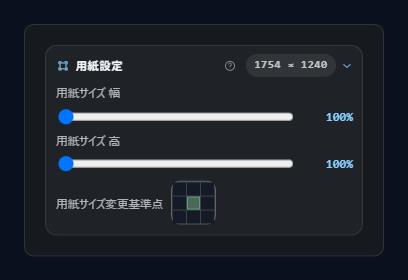
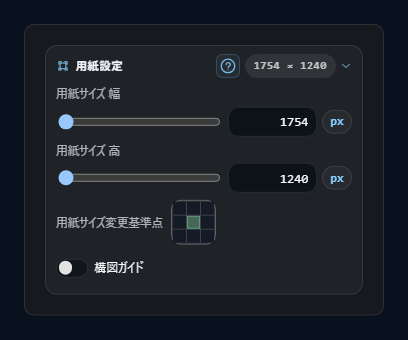
Fix paper pixel inputs and release 1.7.2

diff --git a/test/camera-frames-output-frame-controller.test.ts b/test/camera-frames-output-frame-controller.test.ts
@@ -6,6 +6,10 @@ import {
 	createOutputFrameController,
 } from "../src/controllers/output-frame-controller.js";
 import { createOutputFrameMetricsController } from "../src/controllers/output-frame/metrics.js";
+import {
+	getExportSize,
+	getTargetFrustumExtents,
+} from "../src/engine/projection.js";
 import { createCameraFramesStore } from "../src/store.js";
 import { createShotCameraDocument } from "../src/workspace-model.js";
 
@@ -28,6 +32,7 @@ function createOutputFrameHitHarness() {
 	let shotCameraDocument = createShotCameraDocument({
 		name: "Camera 1",
 	});
+	const historyLabels = [];
 	let renderBoxRect = {
 		left: 120,
 		top: 80,
@@ -89,10 +94,16 @@ function createOutputFrameHitHarness() {
 			return shotCameraDocument;
 		},
 		updateUi: () => {},
+		runHistoryAction: (label, applyChange) => {
+			historyLabels.push(label);
+			applyChange();
+		},
 	});
 	return {
 		controller,
 		state,
+		historyLabels,
+		getDocument: () => shotCameraDocument,
 		setRenderBoxRect: (nextRect) => {
 			renderBoxRect = nextRect;
 		},
@@ -281,6 +292,70 @@ function createOutputFrameHitHarness() {
 		}),
 		false,
 	);
+}
+
+{
+	const harness = createOutputFrameHitHarness();
+	const document = harness.getDocument();
+	document.outputFrame.anchor = "top-left";
+	const frustum = () =>
+		getTargetFrustumExtents({
+			near: 0.1,
+			horizontalFovDegrees: document.lens.baseFovX,
+			...document.outputFrame,
+		});
+	const before = frustum();
+	harness.controller.setBoxWidthPixels(" 2048 ");
+	assert.deepEqual(getExportSize(document.outputFrame), {
+		width: 2048,
+		height: 1240,
+	});
+	harness.controller.setBoxHeightPixels("１５３６．６");
+	assert.deepEqual(getExportSize(document.outputFrame), {
+		width: 2048,
+		height: 1537,
+	});
+	assert.ok(Math.abs(frustum().left - before.left) < 1e-9);
+	assert.ok(Math.abs(frustum().top - before.top) < 1e-9);
+	assert.deepEqual(harness.historyLabels, [
+		"output-frame.width",
+		"output-frame.height",
+	]);
+
+	const snapshot = structuredClone(document);
+	for (const value of [
+		"",
+		"  ",
+		"NaN",
+		"Infinity",
+		"-Infinity",
+		"2048px",
+		"0x1000",
+		"<script>alert(1)</script>",
+		"9".repeat(400),
+		Number.NaN,
+		Number.POSITIVE_INFINITY,
+		null,
+		undefined,
+	]) {
+		harness.controller.setBoxWidthPixels(value);
+		harness.controller.setBoxHeightPixels(value);
+		assert.deepEqual(document, snapshot, `invalid input: ${value}`);
+	}
+	assert.equal(harness.historyLabels.length, 2);
+
+	harness.controller.setBoxWidthPixels(-100);
+	harness.controller.setBoxHeightPixels("0");
+	assert.deepEqual(getExportSize(document.outputFrame), {
+		width: 1754,
+		height: 1240,
+	});
+	harness.controller.setBoxWidthPixels("999999");
+	harness.controller.setBoxHeightPixels("999999");
+	assert.deepEqual(getExportSize(document.outputFrame), {
+		width: 15996,
+		height: 15996,
+	});
 }
 
 console.log("✅ CAMERA_FRAMES output frame controller tests passed!");

diff --git a/src/ui/workbench-camera-export-sections.js b/src/ui/workbench-camera-export-sections.js
@@ -8,6 +8,7 @@ import {
 	resolveAnimationExportFrames,
 } from "../animation/animation-export.js";
 import {
+	BASE_RENDER_BOX,
 	MAX_CAMERA_VIEW_ZOOM_PCT,
 	MAX_OUTPUT_FRAME_HEIGHT_PCT,
 	MAX_OUTPUT_FRAME_WIDTH_PCT,
@@ -771,7 +772,22 @@ export function OutputFrameSection({
 						onLiveChange=${(event) =>
 							controller()?.setBoxWidthPercent(event.currentTarget.value)}
 					/>
-					<output id="box-width-value">${widthLabel}</output>
+					<div class="numeric-unit">
+						<${NumericDraftInput}
+							id="box-width-value"
+							aria-label=${`${t("field.outputFrameWidth")} (px)`}
+							title=${widthLabel}
+							inputMode="numeric"
+							min=${BASE_RENDER_BOX.width}
+							max=${Math.round((BASE_RENDER_BOX.width * MAX_OUTPUT_FRAME_WIDTH_PCT) / 100)}
+							step="1"
+							value=${store.exportWidth.value}
+							controller=${controller}
+							historyLabel="output-frame.width"
+							onCommit=${(nextValue) => controller()?.setBoxWidthPixels(nextValue)}
+						/>
+						<${NumericUnitLabel} value="px" />
+					</div>
 				</div>
 			</label>
 			<label class="field field--range">
@@ -788,7 +804,22 @@ export function OutputFrameSection({
 						onLiveChange=${(event) =>
 							controller()?.setBoxHeightPercent(event.currentTarget.value)}
 					/>
-					<output id="box-height-value">${heightLabel}</output>
+					<div class="numeric-unit">
+						<${NumericDraftInput}
+							id="box-height-value"
+							aria-label=${`${t("field.outputFrameHeight")} (px)`}
+							title=${heightLabel}
+							inputMode="numeric"
+							min=${BASE_RENDER_BOX.height}
+							max=${Math.round((BASE_RENDER_BOX.height * MAX_OUTPUT_FRAME_HEIGHT_PCT) / 100)}
+							step="1"
+							value=${store.exportHeight.value}
+							controller=${controller}
+							historyLabel="output-frame.height"
+							onCommit=${(nextValue) => controller()?.setBoxHeightPixels(nextValue)}
+						/>
+						<${NumericUnitLabel} value="px" />
+					</div>
 				</div>
 			</label>
 			<div class="field field--inline-compact field--anchor-compact">

diff --git a/src/controllers/output-frame/inspector-ops.js b/src/controllers/output-frame/inspector-ops.js
@@ -1,4 +1,28 @@
-import { clampViewZoom } from "../../engine/projection.js";
+import { BASE_RENDER_BOX } from "../../constants.js";
+import {
+	clampOutputFrameScaleFactor,
+	clampViewZoom,
+} from "../../engine/projection.js";
+
+function getPixelScalePercent(nextValue, baseDimension) {
+	if (typeof nextValue !== "string" && typeof nextValue !== "number") {
+		return null;
+	}
+	const text = String(nextValue).normalize("NFKC").trim();
+	if (!/^[+-]?(?:\d+(?:\.\d*)?|\.\d+)$/.test(text)) {
+		return null;
+	}
+	const pixels = Number(text);
+	if (!Number.isFinite(pixels)) {
+		return null;
+	}
+	return (
+		clampOutputFrameScaleFactor(
+			Math.round(pixels) / baseDimension,
+			baseDimension,
+		) * 100
+	);
+}
 
 export function createOutputFrameInspectorOps({
 	runHistoryAction,
@@ -40,6 +64,20 @@ export function createOutputFrameInspectorOps({
 			});
 		});
 		updateUi();
+	}
+
+	function setBoxWidthPixels(nextValue) {
+		const percent = getPixelScalePercent(nextValue, BASE_RENDER_BOX.width);
+		if (percent !== null) {
+			setBoxWidthPercent(percent);
+		}
+	}
+
+	function setBoxHeightPixels(nextValue) {
+		const percent = getPixelScalePercent(nextValue, BASE_RENDER_BOX.height);
+		if (percent !== null) {
+			setBoxHeightPercent(percent);
+		}
 	}
 
 	function setViewZoomFactor(nextZoom) {
@@ -102,6 +140,8 @@ export function createOutputFrameInspectorOps({
 	return {
 		setBoxWidthPercent,
 		setBoxHeightPercent,
+		setBoxWidthPixels,
+		setBoxHeightPixels,
 		setViewZoomFactor,
 		setViewZoomPercent,
 		canFitOutputFrameToSafeArea,

diff --git a/test/camera-frames-controller-api.test.ts b/test/camera-frames-controller-api.test.ts
@@ -152,6 +152,8 @@ const api = createControllerApi({
 	outputFrameController: {
 		setBoxWidthPercent: () => {},
 		setBoxHeightPercent: () => {},
+		setBoxWidthPixels: (value) => `width-pixels:${value}`,
+		setBoxHeightPixels: (value) => `height-pixels:${value}`,
 		setViewZoomPercent: () => {},
 		fitOutputFrameToSafeArea: () => {},
 		canFitOutputFrameToSafeArea: () => true,
@@ -348,6 +350,8 @@ assert.equal(api.jumpTimelineStart(), "jump-start");
 assert.equal(api.jumpTimelineEnd(), "jump-end");
 assert.equal(api.copyShotCameraToViewport(), "copy-s2v");
 assert.equal(api.resetActiveView(), "reset");
+assert.equal(api.setBoxWidthPixels("2048"), "width-pixels:2048");
+assert.equal(api.setBoxHeightPixels("1536"), "height-pixels:1536");
 assert.equal(api.setShotCameraLensShiftXPercent(12), "shift-x:12");
 assert.equal(api.setShotCameraLensShiftYPercent(-8), "shift-y:-8");
 assert.equal(api.setExportMode("sequence"), "export-mode:sequence");

diff --git a/src/app/controller-api.js b/src/app/controller-api.js
@@ -223,6 +223,8 @@ export function createControllerApi({
 		setViewportTransformHover: viewportToolController.setViewportTransformHover,
 		setBoxWidthPercent: outputFrameController.setBoxWidthPercent,
 		setBoxHeightPercent: outputFrameController.setBoxHeightPercent,
+		setBoxWidthPixels: outputFrameController.setBoxWidthPixels,
+		setBoxHeightPixels: outputFrameController.setBoxHeightPixels,
 		setViewZoomPercent: outputFrameController.setViewZoomPercent,
 		fitOutputFrameToSafeArea: outputFrameController.fitOutputFrameToSafeArea,
 		canFitOutputFrameToSafeArea:

diff --git a/src/controllers/output-frame-controller.js b/src/controllers/output-frame-controller.js
@@ -257,6 +257,8 @@ export function createOutputFrameController({
 		setViewZoomFactor: inspectorOps.setViewZoomFactor,
 		setBoxWidthPercent: inspectorOps.setBoxWidthPercent,
 		setBoxHeightPercent: inspectorOps.setBoxHeightPercent,
+		setBoxWidthPixels: inspectorOps.setBoxWidthPixels,
+		setBoxHeightPixels: inspectorOps.setBoxHeightPixels,
 		setViewZoomPercent: inspectorOps.setViewZoomPercent,
 		fitOutputFrameToSafeArea: inspectorOps.fitOutputFrameToSafeArea,
 		canFitOutputFrameToSafeArea: inspectorOps.canFitOutputFrameToSafeArea,

diff --git a/docs/camera_frames_requirements.md b/docs/camera_frames_requirements.md
@@ -262,6 +262,7 @@ viewport projection 切替の契約:
 - `FRAME` 最大数は `20`
 - output frame の width / height scale は base size 未満に縮めない
 - export output は 1 辺 `16000px` を超えないよう clamp する
+- 右ペインの用紙設定では幅 / 高さを px 単位で直接入力できる。Enter / フォーカス移動で確定、Escape で取消し。小数は整数に丸め、既存のサイズ範囲に clamp する。空欄 / 非数値 / 非有限値は適用しない
 - camera view zoom は `20%` から `200%`
 - anchor は 3x3 の preset を持つ
 - centered off-axis framing を維持するため、frustum は anchor / center / scale を反映して再計算する
